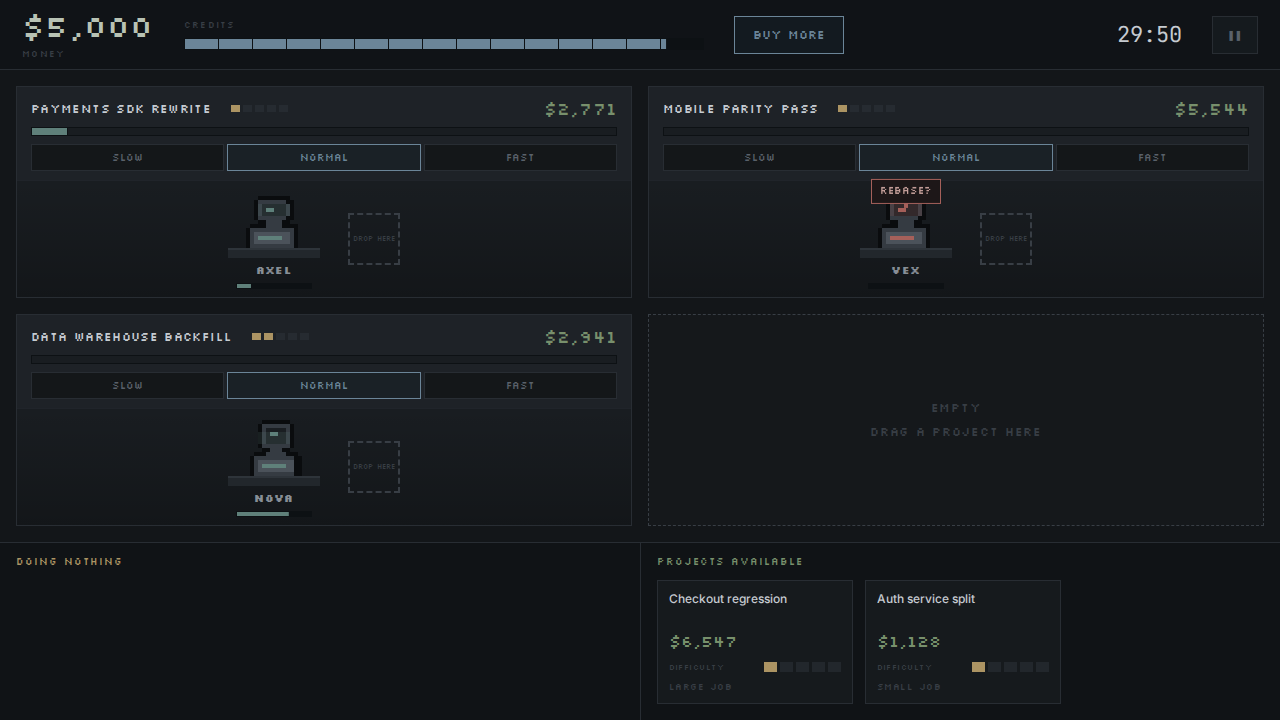
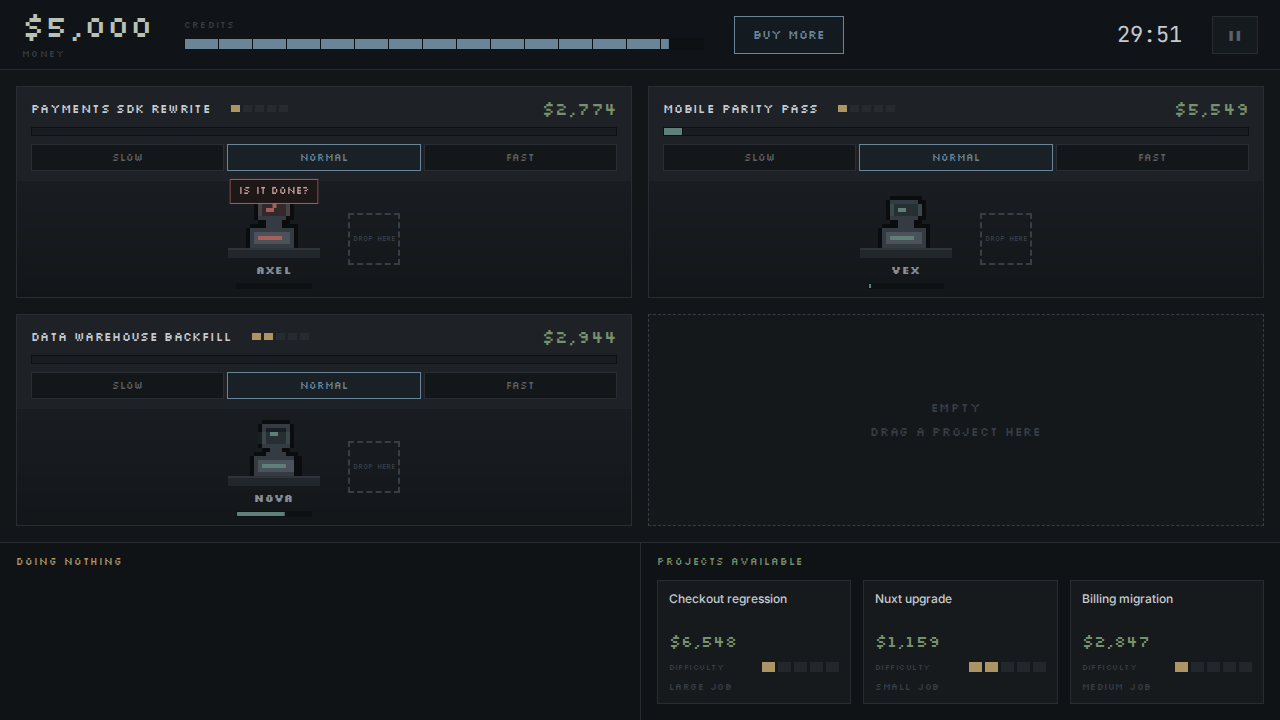
Stop drags selecting text, refill the board per card taken
Two things the screenshots turned up.

Dragging a project card selected the text under the pointer, leaving a blue
smear across the payout for the length of the gesture — nothing on the floor
is text to be copied, so #stage is user-select: none. Sprites also get
-webkit-user-drag: none so an <img> can't start a native HTML5 drag against
our pointer drag.

The board used one shared refill timer, so cards taken in quick succession
queued behind each other: clearing the board in three drags left it dead for
3x boardRefillSeconds and the opening minute read as an empty tray. Each card
taken now schedules its own replacement, and refills that come due in the same
tick all land. boardRefillSeconds is unchanged.

Balance harness over 150 runs/strategy: balanced median $280,716 -> $287,222,
deliveries 45.6 -> 47.5, and P10 $113,263 -> $179,888 with spread 1.05x ->
0.82x — the worst runs were partly board starvation. Screenshots re-shot.

Claude-Session: https://claude.ai/code/session_018jGW2W3XMMMYjxu4rw7GdB

diff --git a/src/sim/sim.test.ts b/src/sim/sim.test.ts
@@ -257,6 +257,30 @@ describe("the board", () => {
     expect(s.board.length).toBe(DEFAULT_CONFIG.boardSlots);
   });
 
+  it("replaces cards taken together in parallel, not in a queue", () => {
+    const s = createRun(DEFAULT_CONFIG, "board-burst");
+    // Clear the whole board in one burst, the way an opening drag flurry does.
+    for (let pod = 0; pod < DEFAULT_CONFIG.boardSlots; pod++) {
+      acceptProject(s, 0, pod);
+      step(s, 0.5);
+    }
+    expect(s.board.length).toBe(0);
+    // Every card is back one refill window after the last one was taken —
+    // not boardSlots windows later.
+    step(s, DEFAULT_CONFIG.boardRefillSeconds + 1);
+    expect(s.board.length).toBe(DEFAULT_CONFIG.boardSlots);
+  });
+
+  it("never holds more pending refills than empty slots", () => {
+    const s = createRun(DEFAULT_CONFIG, "board-invariant");
+    acceptProject(s, 0, 0);
+    acceptProject(s, 0, 1);
+    expect(s.boardRefillDue.length).toBe(DEFAULT_CONFIG.boardSlots - s.board.length);
+    step(s, DEFAULT_CONFIG.boardRefillSeconds * 3);
+    expect(s.board.length).toBe(DEFAULT_CONFIG.boardSlots);
+    expect(s.boardRefillDue.length).toBe(0);
+  });
+
   it("gets richer and harder over the run", () => {
     const s = createRun(DEFAULT_CONFIG, "escalate");
     const early = [...Array(40)].map(() => {

diff --git a/src/sim/tick.ts b/src/sim/tick.ts
@@ -19,7 +19,7 @@ export function acceptProject(s: RunState, boardIndex: number, pod: number): boo
   s.board.splice(boardIndex, 1);
   p.acceptedAt = s.t;
   s.pods[pod] = p;
-  if (s.boardRefillAt <= s.t) s.boardRefillAt = s.t + s.cfg.boardRefillSeconds;
+  s.boardRefillDue.push(s.t + s.cfg.boardRefillSeconds);
   return true;
 }
 
@@ -200,9 +200,14 @@ export function tick(s: RunState, dtSeconds: number): void {
   }
 
   // --- board refill ---------------------------------------------------------
-  if (s.board.length < cfg.boardSlots && s.t >= s.boardRefillAt) {
+  // One timer per card taken, not one shared timer. Under a shared timer the
+  // second and third accepts queued behind the first, so clearing the board
+  // in three quick drags left it dead for 3x boardRefillSeconds and the tray
+  // read as empty through the whole opening. Every card taken now comes back
+  // boardRefillSeconds after *it* was taken.
+  while (s.boardRefillDue.length > 0 && s.t >= (s.boardRefillDue[0] ?? Infinity)) {
+    s.boardRefillDue.shift();
     s.board.push(spawnProject(s));
-    if (s.board.length < cfg.boardSlots) s.boardRefillAt = s.t + cfg.boardRefillSeconds;
   }
 
   // --- buzzer ---------------------------------------------------------------

diff --git a/src/sim/state.ts b/src/sim/state.ts
@@ -57,7 +57,12 @@ export interface RunState {
   /** One slot per pod; null = empty pod. */
   pods: (Project | null)[];
   board: Project[];
-  boardRefillAt: number;
+  /**
+   * Sim-times at which taken cards get replaced, ascending — one entry per
+   * card currently missing from the board. A card taken starts its own timer
+   * rather than queueing behind the previous one.
+   */
+  boardRefillDue: number[];
 
   /** Agents waiting on a click, in the order they broke. */
   blockedQueue: number[];
@@ -136,7 +141,7 @@ export function createRun(cfg: Config = DEFAULT_CONFIG, seed = "seed-1"): RunSta
     agents,
     pods: new Array(cfg.podCount).fill(null),
     board: [],
-    boardRefillAt: 0,
+    boardRefillDue: [],
     blockedQueue: [],
     slowLocked: false,
     lastRepoAt: -999,

diff --git a/src/style.css b/src/style.css
@@ -120,6 +120,11 @@ button {
   background: var(--floor);
   overflow: hidden;
   flex: none;
+  /* Nothing on the floor is text to be copied, and a drag that starts on a
+     card's payout would otherwise leave a blue selection smeared across it
+     for the length of the gesture. */
+  user-select: none;
+  -webkit-user-select: none;
 }
 
 /* ================================================================
@@ -143,6 +148,9 @@ button {
 .sprite {
   image-rendering: pixelated;
   display: block;
+  /* An <img> is natively draggable; that gesture is the HTML5 drag-and-drop
+     API the tech stack doc rules out, and it fights our pointer drag. */
+  -webkit-user-drag: none;
 }
 
 /* ================= TOP: two numbers, credits, buttons, clock ================= */

diff --git a/docs/screenshots/README.md b/docs/screenshots/README.md
@@ -12,11 +12,12 @@ in another.
 | [`01-empty-floor.png`](01-empty-floor.png) | t=0. Four empty pods, three idle agents in `DOING NOTHING`, three cards on the board. The whole screen is grey except the two amber trays and the blue credit bar — nothing is asking for anything yet. |
 | [`02-drag-project.png`](02-drag-project.png) | Gesture two, mid-flight: a project card dragged out of the board and held over pod 0. |
 | [`03-drag-agent.png`](03-drag-agent.png) | Gesture two again, agent variant: AXEL held over pod 0's desks. The other two live pods show their dashed `DROP HERE` slot. |
-| [`04-agents-running.png`](04-agents-running.png) | Three pods staffed and running. Note the pod payouts are already below what the board offered — `$2,819` → `$2,791` — and the credit bar has started to drain. |
+| [`04-agents-running.png`](04-agents-running.png) | Three pods staffed and running. Note the pod payouts are already below what the board offered — `$2,819` → `$2,792` — and the credit bar has started to drain. The board is refilling behind you. |
 | [`05-blocked-agent.png`](05-blocked-agent.png) | Gesture one: VEX has blocked and is asking `REBASE?` in red. That run's progress is gone the moment you click it, and it keeps burning credits until you do. |
 | [`06-mid-run.png`](06-mid-run.png) | Eight minutes in with nobody clicking, which is the whole thesis: all three agents blocked, `$2,819` decayed to `$338`, half the credits burnt, zero delivered. |
 | [`07-paused.png`](07-paused.png) | `Esc`. The overlay dims the floor without hiding it. |
 
-Two things visible here that are known-missing rather than done: the payout
-decay in 04 and 06 is real sim state, but the run has no shop to spend cash in,
-so `BUY MORE` is still the placeholder single-block button.
+One thing visible here is known-missing rather than done: there is no shop yet,
+so `BUY MORE` is the placeholder single-block button and cash has nowhere to go
+mid-run. Everything else on screen — the decay, the credit drain, the blocked
+queue — is live sim state.
